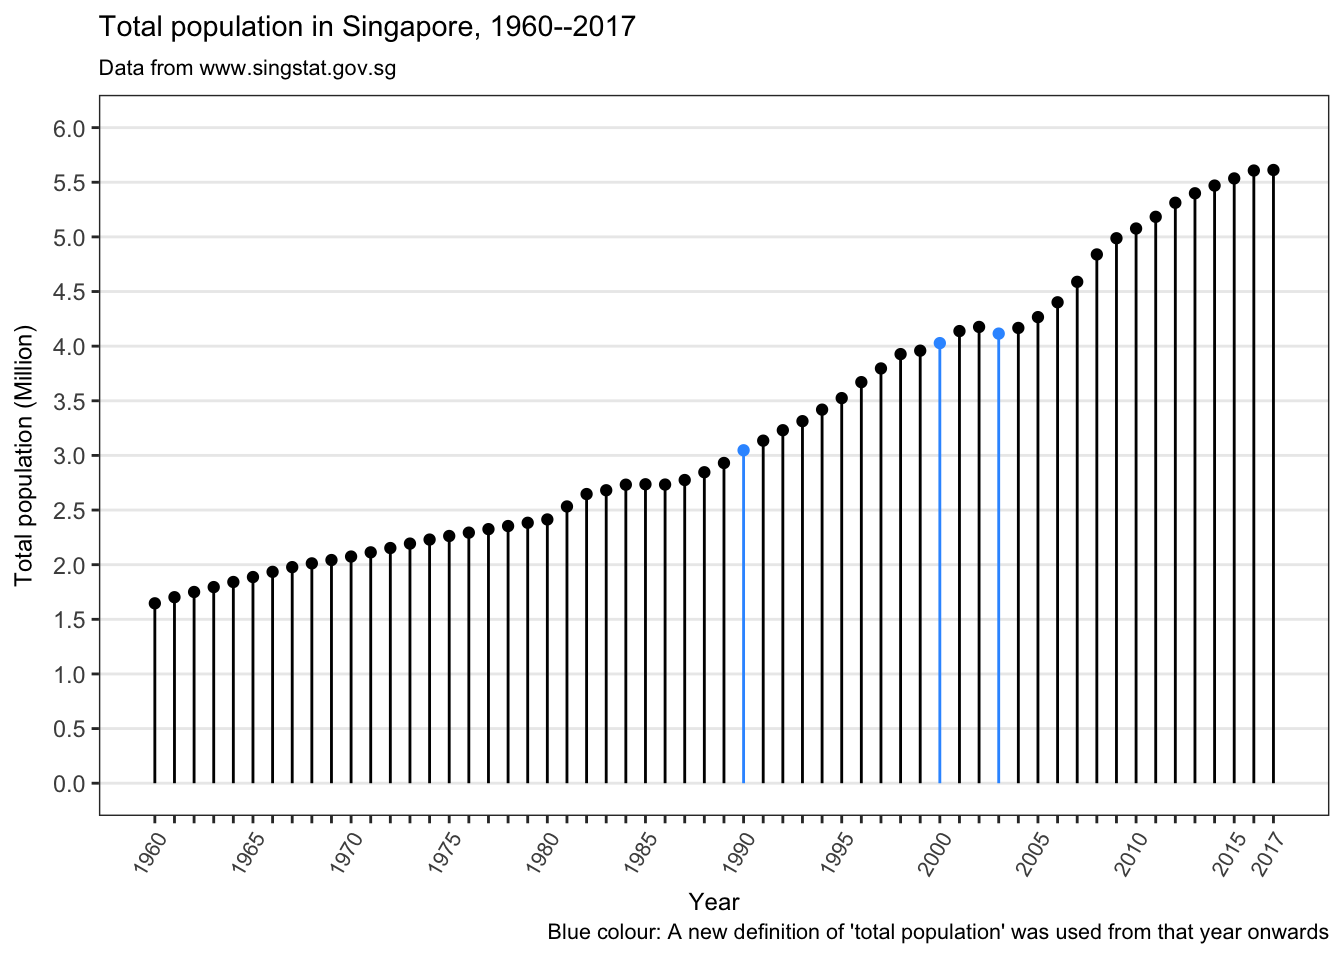
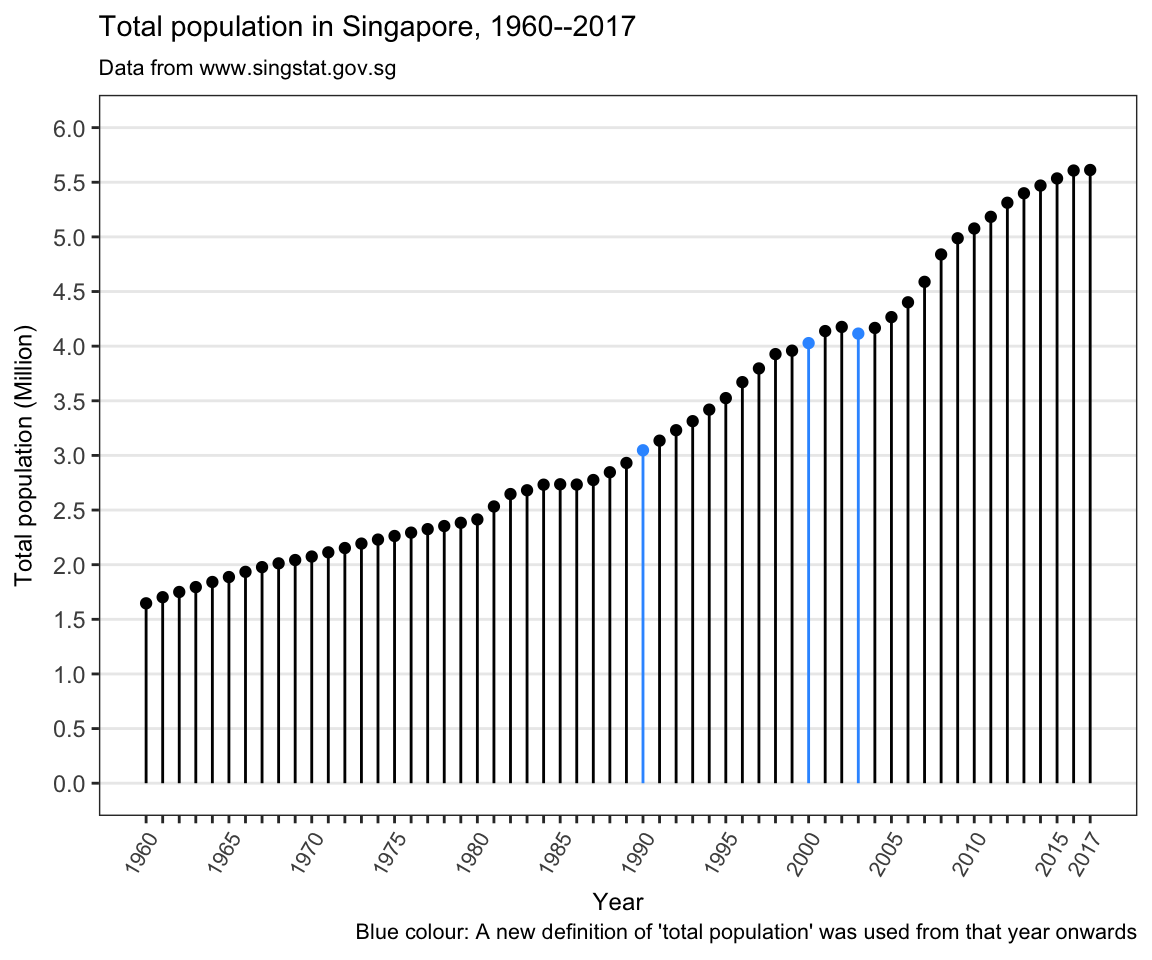
changed figure size

diff --git a/content/post/2017-11-26-the-number-of-citizens-permanent-residents-and-non-residents-in-singapore.html b/content/post/2017-11-26-the-number-of-citizens-permanent-residents-and-non-residents-in-singapore.html
@@ -15,7 +15,7 @@ output:
     toc: true
     toc_depth: 1
     number_sections: true
-    fig_width: 7
+    fig_width: 6
 ---
 
 
@@ -40,7 +40,7 @@ output:
 </ul></li>
 <li><p>The greatest annual increase in the population happened in 2008, where there were 250,000 more people compared to 2007.</p></li>
 </ul>
-<p><img src="/post/2017-11-26-the-number-of-citizens-permanent-residents-and-non-residents-in-singapore_files/figure-html/poptrend-1.png" width="672" /></p>
+<p><img src="/post/2017-11-26-the-number-of-citizens-permanent-residents-and-non-residents-in-singapore_files/figure-html/poptrend-1.png" width="576" /></p>
 </div>
 <div id="total-population-by-residency-status" class="section level2">
 <h2><span class="header-section-number">0.2</span> Total population by residency status</h2>
@@ -50,14 +50,14 @@ output:
 <li><p>The number of permanent residents increased by an average (median) of 17,200 each year, from 112,000 permanent residents in 1990 to 527,000 permanent residents in 2017.</p></li>
 <li><p>The number of non-residents increased by an average (median) of 47,700 each year, from 311,000 non-residents in 1990 to 1.65 million non-residents in 2017.</p></li>
 </ul>
-<p><img src="/post/2017-11-26-the-number-of-citizens-permanent-residents-and-non-residents-in-singapore_files/figure-html/resident1-1.png" width="672" /></p>
+<p><img src="/post/2017-11-26-the-number-of-citizens-permanent-residents-and-non-residents-in-singapore_files/figure-html/resident1-1.png" width="576" /></p>
 <p>The chart below shows the trend in the percentage of Singapore citizens, PRs and non-residents. The line for non-residents starts at 1980 while the lines for citizens and PRs start at 1990 because that is when the data are available. Data before 1970 are not available.</p>
 <ul>
 <li><p>The percentage of Singapore citizens in the Singapore population decreased by an average (median) of 1 percentage points each year, from 86.1% in 1990 to 61.3% in 2017.</p></li>
 <li><p>The percentage of permanent residents in the Singapore population increased by an average (median) of 0.3 percentage points each year, from 3.7% in 1990 to 9.4% in 2017.</p></li>
 <li><p>The percentage of non-residents in the Singapore population increased by an average (median) of 0.7 percentage points each year, from 10.2% in 1990 to 29.3% in 2017.</p></li>
 </ul>
-<p><img src="/post/2017-11-26-the-number-of-citizens-permanent-residents-and-non-residents-in-singapore_files/figure-html/residp-1.png" width="672" /></p>
+<p><img src="/post/2017-11-26-the-number-of-citizens-permanent-residents-and-non-residents-in-singapore_files/figure-html/residp-1.png" width="576" /></p>
 <p>It is interesting to note that the percentage of non-residents in the total population was just under 20% from 1998 to 2006, but increased rapidly to 25.1% in 2009. From 2006 to 2009, the total population increased by 586,000 people, of which 64.5% were non-residents, 19.7% were permanent residents, and 15.8% were Singapore citizens. As a result, the percentage of Singapore citizens in the total population decreased from 70.6% in 2006 to 64.2% in 2009.</p>
 <p>In 2011, the Singapore government announced it would review the immigration policies in response to concerns from Singapore citizens<a href="#fn4" class="footnoteRef" id="fnref4"><sup>4</sup></a>.</p>
 </div>
